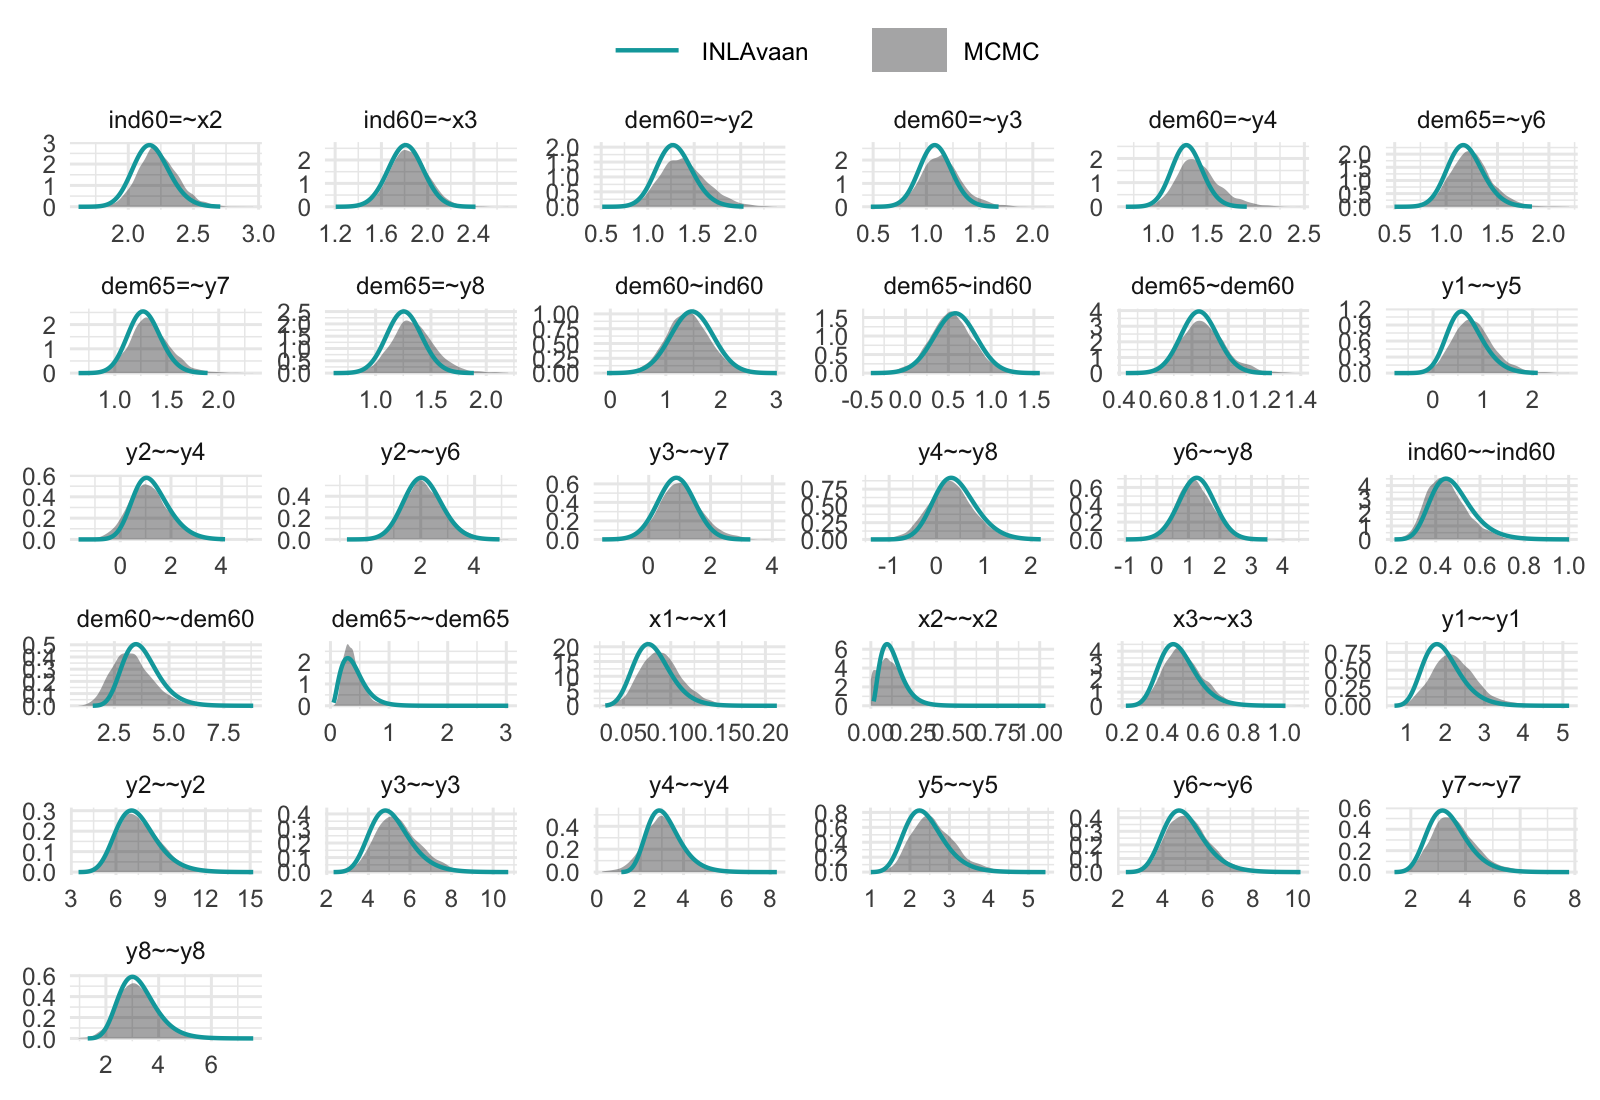
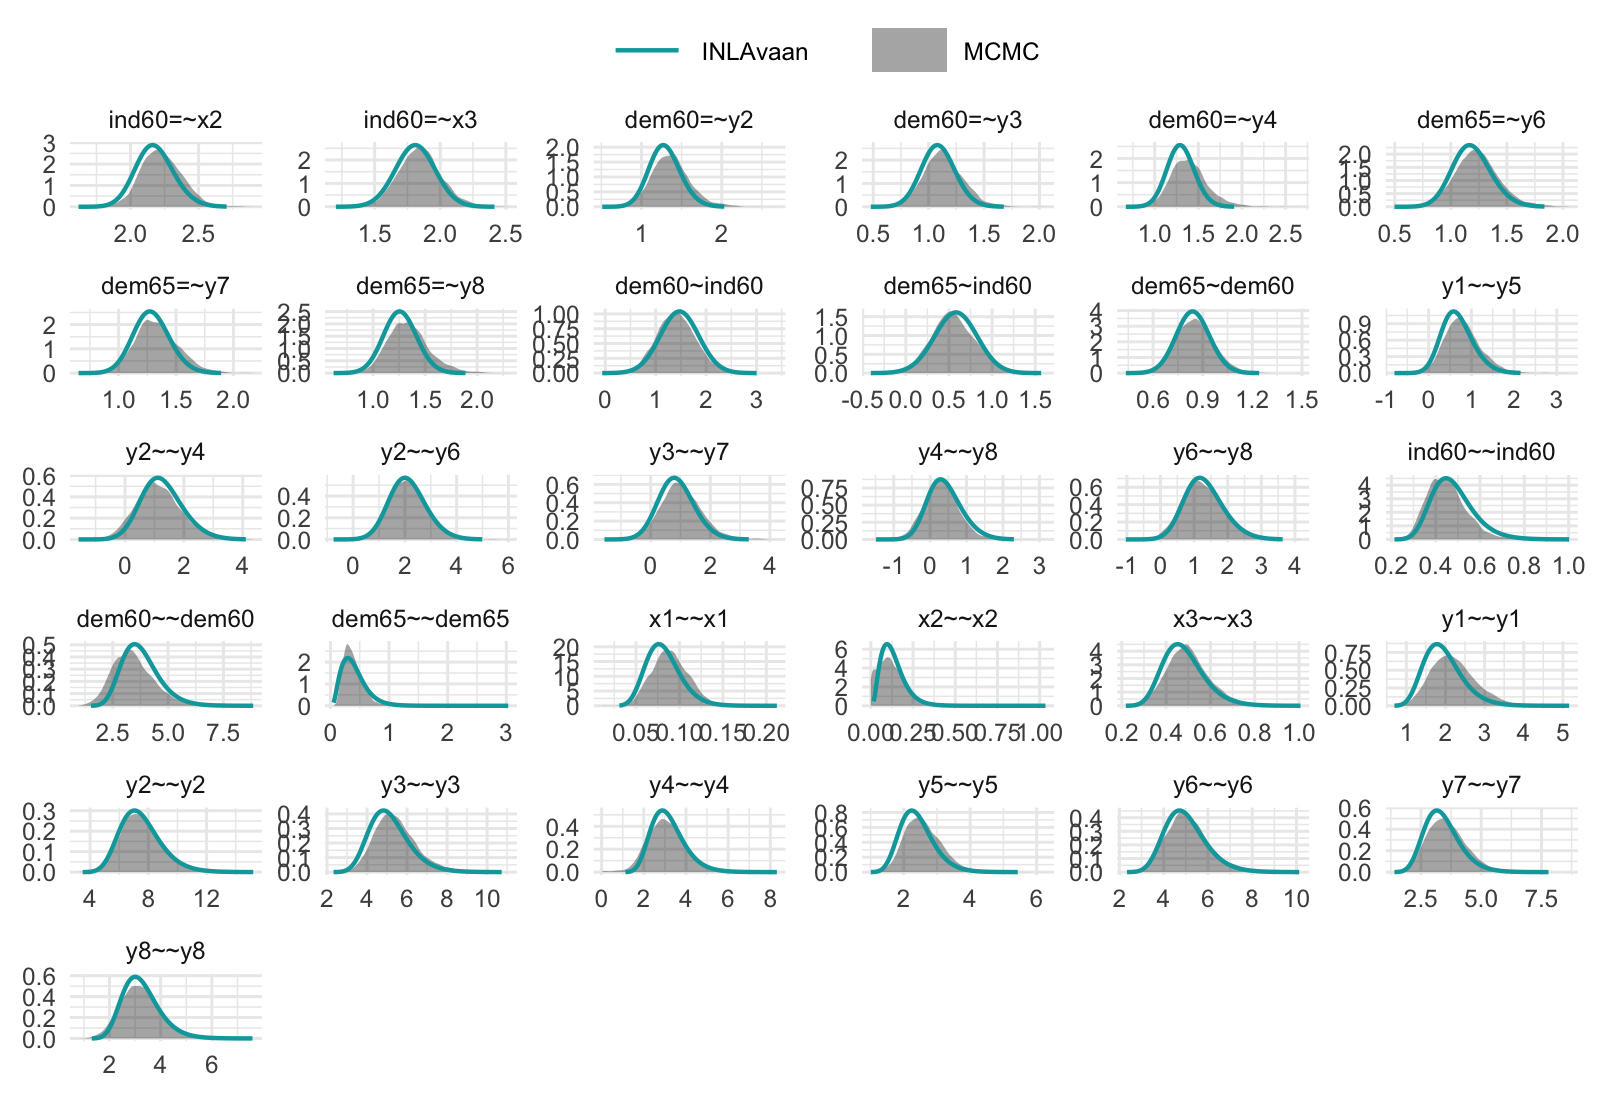
Update README

diff --git a/README.md b/README.md
@@ -18,11 +18,12 @@ coverage](https://codecov.io/gh/haziqj/INLAvaan/branch/main/graph/badge.svg)](ht
 While Markov Chain Monte Carlo (MCMC) methods remain the gold standard
 for exact Bayesian inference, they can be prohibitively slow for
 iterative model development. `{INLAvaan}` offers a rapid alternative for
-**la**tent **va**riable **an**alysis, delivering Bayesian results at (or
-near) the speed of frequentist estimators. It achieves this through a
-custom, ground-up implementation of the [Integrated Nested Laplace
-Approximation (INLA)](https://www.r-inla.org), engineered specifically
-for the [lavaan](https://lavaan.org) modelling framework.
+<u>**la**</u>tent <u>**va**</u>riable <u>**an**</u>alysis, delivering
+Bayesian results at (or near) the speed of frequentist estimators. It
+achieves this through a custom, ground-up implementation of the
+[Integrated Nested Laplace Approximation
+(INLA)](https://www.r-inla.org), engineered specifically for the
+[lavaan](https://lavaan.org) modelling framework.
 
 ## A Familiar Interface
 
@@ -62,29 +63,29 @@ utils::data("PoliticalDemocracy", package = "lavaan")
 fit <- asem(model, PoliticalDemocracy)
 #> ℹ Using MVN log-likelihood.
 #> ℹ Finding posterior mode.
-#> ✔ Finding posterior mode. [109ms]
+#> ✔ Finding posterior mode. [90ms]
 #> 
 #> ℹ Computing the Hessian.
-#> ✔ Computing the Hessian. [306ms]
+#> ✔ Computing the Hessian. [295ms]
 #> 
 #> ℹ Using skew normal approximation.
 #> ℹ Fitting skew normal to marginals.
-#> ✔ Fitting skew normal to marginals. [421ms]
+#> ✔ Fitting skew normal to marginals. [435ms]
 #> 
 #> ℹ Sampling posterior covariances.
-#> ✔ Sampling posterior covariances. [106ms]
+#> ✔ Sampling posterior covariances. [110ms]
 #> 
 #> ⠙ Computing ppp and DIC.
 #> ⠹ Computing ppp and DIC.
 #> ⠸ Computing ppp and DIC.
 #> ⠼ Computing ppp and DIC.
-#> ✔ Computing ppp and DIC. [1s]
+#> ✔ Computing ppp and DIC. [988ms]
 #> 
 
 summary(fit)
 #> INLAvaan 0.2.0 ended normally after 70 iterations
 #> 
-#>   Estimator                                         ML
+#>   Estimator                                      BAYES
 #>   Optimization method                           NLMINB
 #>   Number of model parameters                        31
 #> 
@@ -93,72 +94,72 @@ summary(fit)
 #> Model Test (User Model):
 #> 
 #>    Marginal log-likelihood                   -1641.399 
-#>    PPP (Chi-square)                              0.525 
+#>    PPP (Chi-square)                              0.494 
 #> 
 #> Information Criteria:
 #> 
-#>    Deviance (DIC)                             3158.970 
-#>    Effective parameters (pD)                    31.100 
+#>    Deviance (DIC)                             3158.919 
+#>    Effective parameters (pD)                    31.075 
 #> 
 #> Parameter Estimates:
 #> 
 #>    Marginalisation method                     SKEWNORM
 #> 
 #> Latent Variables:
-#>                    Estimate       SD     2.5%      50%    97.5%     Mode    Prior       
-#>   ind60 =~                                                                              
-#>     x1                1.000                                                             
-#>     x2                2.179    0.140    1.920    2.174    2.470    2.162    normal(0,10)
-#>     x3                1.811    0.151    1.516    1.810    2.109    1.809    normal(0,10)
-#>   dem60 =~                                                                              
-#>     y1                1.000                                                             
-#>     y2                1.294    0.196    0.930    1.286    1.699    1.271    normal(0,10)
-#>     y3                1.088    0.152    0.799    1.085    1.396    1.078    normal(0,10)
-#>     y4                1.300    0.157    1.002    1.297    1.620    1.289    normal(0,10)
-#>   dem65 =~                                                                              
-#>     y5                1.000                                                             
-#>     y6                1.190    0.173    0.872    1.183    1.553    1.166    normal(0,10)
-#>     y7                1.287    0.159    0.990    1.282    1.613    1.272    normal(0,10)
-#>     y8                1.261    0.160    0.954    1.259    1.581    1.254    normal(0,10)
+#>                    Estimate       SD     2.5%    97.5%    Prior       
+#>   ind60 =~                                                            
+#>     x1                1.000                                           
+#>     x2                2.179    0.140    1.920    2.470    normal(0,10)
+#>     x3                1.811    0.151    1.516    2.109    normal(0,10)
+#>   dem60 =~                                                            
+#>     y1                1.000                                           
+#>     y2                1.294    0.196    0.930    1.699    normal(0,10)
+#>     y3                1.088    0.152    0.799    1.396    normal(0,10)
+#>     y4                1.300    0.157    1.002    1.620    normal(0,10)
+#>   dem65 =~                                                            
+#>     y5                1.000                                           
+#>     y6                1.190    0.173    0.872    1.553    normal(0,10)
+#>     y7                1.287    0.159    0.990    1.613    normal(0,10)
+#>     y8                1.261    0.160    0.954    1.581    normal(0,10)
 #> 
 #> Regressions:
-#>                    Estimate       SD     2.5%      50%    97.5%     Mode    Prior       
-#>   dem60 ~                                                                               
-#>     ind60             1.472    0.383    0.722    1.471    2.223    1.470    normal(0,10)
-#>   dem65 ~                                                                               
-#>     ind60             0.578    0.247    0.089    0.579    1.059    0.582    normal(0,10)
-#>     dem60             0.842    0.101    0.647    0.841    1.044    0.838    normal(0,10)
+#>                    Estimate       SD     2.5%    97.5%    Prior       
+#>   dem60 ~                                                             
+#>     ind60             1.472    0.383    0.722    2.223    normal(0,10)
+#>   dem65 ~                                                             
+#>     ind60             0.578    0.247    0.089    1.059    normal(0,10)
+#>     dem60             0.842    0.101    0.647    1.044    normal(0,10)
 #> 
 #> Covariances:
-#>                    Estimate       SD     2.5%      50%    97.5%     Mode    Prior       
-#>  .y1 ~~                                                                                 
-#>    .y5                0.299    0.360    0.038    0.635    1.449    0.572       beta(1,1)
-#>  .y2 ~~                                                                                 
-#>    .y4                0.254    0.723    0.006    1.176    2.833    1.030       beta(1,1)
-#>    .y6                0.349    0.708    0.772    2.069    3.553    2.019       beta(1,1)
-#>  .y3 ~~                                                                                 
-#>    .y7                0.212    0.599   -0.283    0.891    2.066    0.891       beta(1,1)
-#>  .y4 ~~                                                                                 
-#>    .y8                0.121    0.448   -0.388    0.375    1.371    0.309       beta(1,1)
-#>  .y6 ~~                                                                                 
-#>    .y8                0.306    0.561    0.163    1.263    2.362    1.263       beta(1,1)
+#>                    Estimate       SD     2.5%    97.5%    Prior       
+#>  .y1 ~~                                                               
+#>    .y5                0.299    0.369    0.030    1.477       beta(1,1)
+#>  .y2 ~~                                                               
+#>    .y4                0.254    0.711    0.001    2.790       beta(1,1)
+#>    .y6                0.349    0.718    0.812    3.633       beta(1,1)
+#>  .y3 ~~                                                               
+#>    .y7                0.212    0.605   -0.243    2.134       beta(1,1)
+#>  .y4 ~~                                                               
+#>    .y8                0.121    0.473   -0.420    1.436       beta(1,1)
+#>  .y6 ~~                                                               
+#>    .y8                0.306    0.583    0.276    2.562       beta(1,1)
 #> 
 #> Variances:
-#>                    Estimate       SD     2.5%      50%    97.5%     Mode    Prior       
-#>     ind60             0.478    0.096    0.323    0.467    0.697    0.446     gamma(1,.5)
-#>    .dem60             3.766    0.847    2.390    3.669    5.693    3.486      gamma(2,1)
-#>    .dem65             0.402    0.210    0.107    0.366    0.908    0.295      gamma(2,1)
-#>    .x1                0.082    0.020    0.048    0.080    0.126    0.076 gamma(1,.5)[sd]
-#>    .x2                0.132    0.070    0.034    0.120    0.303    0.096 gamma(1,.5)[sd]
-#>    .x3                0.482    0.095    0.327    0.471    0.696    0.452 gamma(1,.5)[sd]
-#>    .y1                1.952    0.497    1.155    1.892    3.088    1.779 gamma(1,.5)[sd]
-#>    .y2                7.489    1.420    5.160    7.335   10.705    7.044 gamma(1,.5)[sd]
-#>    .y3                5.138    1.010    3.485    5.027    7.428    4.818 gamma(1,.5)[sd]
-#>    .y4                3.161    0.802    1.879    3.063    5.000    2.877 gamma(1,.5)[sd]
-#>    .y5                2.407    0.518    1.563    2.349    3.584    2.239 gamma(1,.5)[sd]
-#>    .y6                5.006    0.942    3.457    4.904    7.135    4.713 gamma(1,.5)[sd]
-#>    .y7                3.398    0.743    2.187    3.315    5.082    3.158 gamma(1,.5)[sd]
-#>    .y8                3.248    0.729    2.068    3.164    4.908    3.005 gamma(1,.5)[sd]
+#>                    Estimate       SD     2.5%    97.5%    Prior       
+#>     ind60             0.478    0.096    0.323    0.697     gamma(1,.5)
+#>    .dem60             3.766    0.847    2.390    5.693      gamma(2,1)
+#>    .dem65             0.402    0.210    0.107    0.908      gamma(2,1)
+#>    .x1                0.082    0.020    0.048    0.126 gamma(1,.5)[sd]
+#>    .x2                0.132    0.070    0.034    0.303 gamma(1,.5)[sd]
+#>    .x3                0.482    0.095    0.327    0.696 gamma(1,.5)[sd]
+#>    .y1                1.952    0.497    1.155    3.088 gamma(1,.5)[sd]
+#>    .y2                7.489    1.420    5.160   10.705 gamma(1,.5)[sd]
+#>    .y3                5.138    1.010    3.485    7.428 gamma(1,.5)[sd]
+#>    .y4                3.161    0.802    1.879    5.000 gamma(1,.5)[sd]
+#>    .y5                2.407    0.518    1.563    3.584 gamma(1,.5)[sd]
+#>    .y6                5.006    0.942    3.457    7.135 gamma(1,.5)[sd]
+#>    .y7                3.398    0.743    2.187    5.082 gamma(1,.5)[sd]
+#>    .y8                3.248    0.729    2.068    4.908 gamma(1,.5)[sd]
 ```
 
 ## Validation Against MCMC
